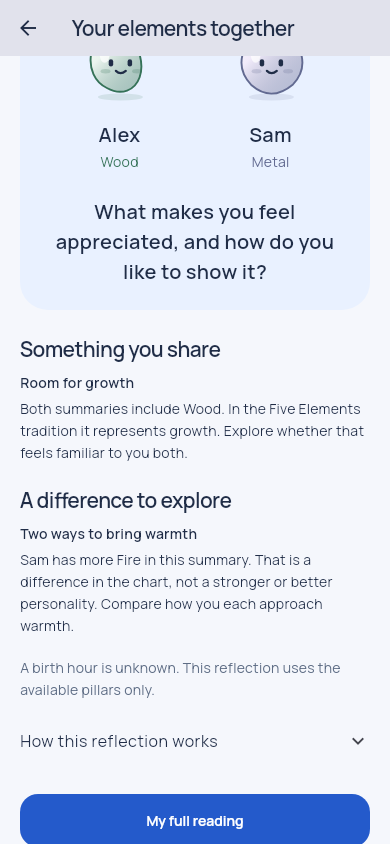
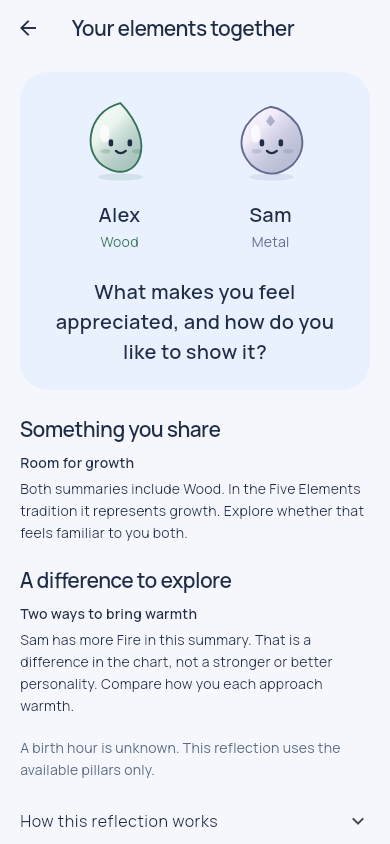
Keep shared result navigation and scrolling predictable

Changed region(s): [[0.0308, 0.2464, 0.9538, 1.0], [0.6154, 0.0616, 0.8, 0.2156], [0.2154, 0.0616, 0.3692, 0.2156]]

diff --git a/test/sharing_test.dart b/test/sharing_test.dart
@@ -10,6 +10,8 @@ import 'package:timezone/data/latest_all.dart' as tz;
 import 'package:lunar_social/main.dart';
 import 'package:lunar_social/models/profile.dart';
 import 'package:lunar_social/services/app_state.dart';
+import 'package:lunar_social/services/intent_flow.dart';
+import 'package:lunar_social/ui/intent_pages.dart';
 import 'package:lunar_social/services/bazi.dart' as bazi;
 import 'package:lunar_social/services/data_export.dart';
 import 'package:lunar_social/services/device_storage.dart';
@@ -258,6 +260,61 @@ void main() {
     await tester.pump(const Duration(seconds: 7));
     await tester.pumpAndSettle();
     expect(find.text('Something you share'), findsNothing);
+    expect(find.textContaining('expired or was withdrawn'), findsOneWidget);
+    await tester.pumpWidget(const SizedBox());
+    state.dispose();
+  });
+  testWidgets(
+      'returning from sharing can reopen the reading after navigating elsewhere',
+      (tester) async {
+    final state =
+        AppState(await SharedPreferences.getInstance(), initialPeople: []);
+    await state.chooseIntent(AppIntent.chart);
+    await tester.pumpWidget(LunarApp(state: state));
+    await tester.pumpAndSettle();
+    tester
+        .widget<NavigationBar>(find.byType(NavigationBar))
+        .onDestinationSelected!(1);
+    await tester.pumpAndSettle();
+    expect(find.byType(MyChartPage), findsNothing);
+    await state.chooseIntent(AppIntent.chart);
+    await tester.pumpAndSettle();
+    expect(find.byType(MyChartPage), findsOneWidget);
+    await tester.pumpWidget(const SizedBox());
+    state.dispose();
+  });
+  testWidgets('refreshing a withdrawn link clears the previous shared card',
+      (tester) async {
+    final prefs = await SharedPreferences.getInstance();
+    await prefs.setString(
+        'sharing.v1',
+        jsonEncode([
+          ShareEntry(
+                  id: id,
+                  secret: newShareToken(),
+                  kind: 'pair',
+                  role: 'owner',
+                  portrait: portrait,
+                  expiresAt: until)
+              .toJson()
+        ]));
+    var withdrawn = false;
+    final state = AppState(prefs,
+        initialPeople: [],
+        sharingRepository: SharingRepository(
+            client: MockClient((r) async => withdrawn
+                ? http.Response('{"code":"expired_or_missing"}', 410)
+                : ok(link()))));
+    await tester.pumpWidget(MaterialApp(
+        theme: lunarTheme(),
+        home: SharedLinkPage(state: state, id: id, onExit: () {})));
+    await tester.pumpAndSettle();
+    expect(find.byType(ElementPortraitCard), findsOneWidget);
+    withdrawn = true;
+    await tester.ensureVisible(find.text('Check for reply'));
+    await tester.tap(find.text('Check for reply'));
+    await tester.pumpAndSettle();
+    expect(find.byType(ElementPortraitCard), findsNothing);
     expect(find.textContaining('expired or was withdrawn'), findsOneWidget);
     await tester.pumpWidget(const SizedBox());
     state.dispose();

diff --git a/lib/ui/app_shell.dart b/lib/ui/app_shell.dart
@@ -32,7 +32,8 @@ class AppShell extends StatefulWidget {
 
 class _AppShellState extends State<AppShell> {
   AppState get state => widget.state;
-  AppIntent? section, lastIntent;
+  AppIntent? section;
+  late int intentGeneration;
   late final StudioStore studio;
   late final ChartAgent agent;
   final scroll = ScrollController(), search = TextEditingController();
@@ -50,7 +51,8 @@ class _AppShellState extends State<AppShell> {
   @override
   void initState() {
     super.initState();
-    section = lastIntent = state.startIntent;
+    section = state.startIntent;
+    intentGeneration = state.intentGeneration;
     studio = StudioStore(state);
     agent = ChartAgent(studio);
     generation = state.resetGeneration;
@@ -61,8 +63,9 @@ class _AppShellState extends State<AppShell> {
   String _profileSignature() =>
       jsonEncode([state.name, state.birth.toJson(), state.personalized]);
   void _changed() {
-    if (state.startIntent != lastIntent) {
-      section = lastIntent = state.startIntent;
+    if (state.intentGeneration != intentGeneration) {
+      intentGeneration = state.intentGeneration;
+      section = state.startIntent;
     }
     final next = _profileSignature();
     if (next != profileSignature) {

diff --git a/lib/services/app_state.dart b/lib/services/app_state.dart
@@ -43,6 +43,7 @@ class AppState extends ChangeNotifier {
   List<ReportRecord> reports = [];
   String? persistenceError;
   int resetGeneration = 0;
+  int intentGeneration = 0;
   AppIntent? startIntent;
   AppState(this.preferences,
       {PeopleRepository? peopleRepository,
@@ -201,6 +202,7 @@ class AppState extends ChangeNotifier {
           return false;
         }
         startIntent = intent;
+        intentGeneration++;
         _notify();
         return true;
       }, failure: false);

diff --git a/test/render/capture_sharing.dart b/test/render/capture_sharing.dart
@@ -134,6 +134,8 @@ void main() {
       await tester.pumpAndSettle();
       expect(joined, isTrue);
       expect(find.text('Your elements together'), findsOneWidget);
+      expect(tester.getTopLeft(find.byType(PairResultView)).dy,
+          greaterThanOrEqualTo(56));
       await shot('result');
       await tester.ensureVisible(find.text('Compare with another friend'));
       await tester.tap(find.text('Compare with another friend'));

diff --git a/lib/ui/sharing_pages.dart b/lib/ui/sharing_pages.dart
@@ -42,6 +42,7 @@ class ShareFrame extends StatelessWidget {
               onPressed: onClose ?? () => Navigator.pop(context))),
       body: SafeArea(
           child: SingleChildScrollView(
+              key: ValueKey(title),
               padding: const EdgeInsets.fromLTRB(20, 16, 20, 40),
               child: Center(
                   child: ConstrainedBox(

diff --git a/README.md b/README.md
@@ -46,6 +46,8 @@ GitHub Actions runs Flutter/Python checks, a Web release, an Android debug build
 
 ## Working features
 
+- Shareable element cards and private one-friend comparisons, persisted in D1. Preview the shared fields, create a seven-day link, open it on another device, consent to a reduced elemental summary, and both view a commonality, difference and conversation question. Revisit/withdraw from My shared links; share through the system, clipboard or a card image. [Sharing contract and verification](docs/friend-sharing.md).
+
 - A persistent Cloudflare D1 catalog with 1,000 explicitly synthetic adults across 40 countries, six continents and ages 18–75. Public SQL-backed list/detail/statistics APIs support paging and filters. Catalog records use initials and independently verified lunar-python chart snapshots, including historical birth instants. See [catalog operations](catalog/README.md).
 
 - Optional Element Garden: an original five-habitat map, a tap/drag supporting-cycle puzzle, waking guardians, a five-seal collection and readable field notes. Each of five links saves immediately; old rewards migrate and replay never duplicates sparks. All three discoveries remain freely selectable and clear with local data.
@@ -61,7 +63,7 @@ GitHub Actions runs Flutter/Python checks, a Web release, an Android debug build
 - Save / unsave connections, inspect match breakdowns, and hide profiles.
 - Search discovery by name, city/country, occupation, or interests.
 - Secondary Saved, Invitations, and Messages tabs within Match.
-- Local-only invitations, withdrawal, conversation previews, and persistent message drafts with an icebreaker. No messages are delivered.
+- Local-only invitations to synthetic profiles, withdrawal, conversation previews, and persistent message drafts with an icebreaker. No messages are delivered.
 - Validated adult birth profile, date picker, optional birth time, 16 global birthplaces, and custom birthplace with IANA zone and longitude.
 - Historical time-zone and daylight-saving handling.
 - Four Pillars, day master, visible element distribution, and English guide.

diff --git a/docs/release-review.md b/docs/release-review.md
@@ -14,6 +14,7 @@ Implemented personal element cards and a consented one-friend comparison in the 
 | A profile-save snackbar covered the following consent step on a phone. | Dismiss it when entering the shared-details preview. Actual renderer interaction completes the confirmation on phones and 320px/200% text. |
 | A refreshed revoked link could retain the previous result in widget memory. | Failed reloads clear old shared data; an expiry timer closes an already-open result. Regression tests verify expiry and no stale result. |
 | One malformed saved link could discard all other withdrawal handles. | Recover valid records independently and show a recovery notice; a regression preserves the valid handle. |
+| After acceptance, the result inherited the preview’s scroll position and clipped the companions. | Each share stage has a separate scroll view; the result begins at the top. All three renderer walkthroughs assert its position. |
 
 The sharing schema rejects birth inputs and unexpected properties. Capabilities are independent from public link IDs and hashed on the server. Pair acceptance is atomic and retry-safe, records expire after seven days, either participant can withdraw, and aggregate counters contain no names or referral graph. This does not create real community accounts, verified identities or mutual messaging. Production smoke and final CI/publication evidence are recorded in verification.md. The supported browser-control tool is unavailable; renderer interaction is not browser or native share-sheet acceptance.
 

diff --git a/docs/verification.md b/docs/verification.md
@@ -2,7 +2,7 @@
 
 ## Friend sharing — 2026-11-14
 
-- Clean Flutter analysis; **116 Flutter tests** pass, including URL routing, reduced chart snapshots, consent, failed save/no request, ambiguous network retry after restart, acknowledgement failure, corrupt-entry recovery, concurrent create/reset, offline withdrawal, credential-free export, expiry and large-text layouts.
+- Clean Flutter analysis; **118 Flutter tests** pass, including URL routing, reduced chart snapshots, consent, failed save/no request, ambiguous network retry after restart, acknowledgement failure, corrupt-entry recovery, concurrent create/reset, offline withdrawal, credential-free export, expiry and large-text layouts.
 - **20 file-backed SQLite/API tests** pass (11 catalog, 9 sharing), including cross-device result retrieval, missing/invalid credentials, single-participant races, idempotency, strict input/body bounds, shared rate limits, both withdrawal roles and expiry after reopening the real database file.
 - **23 Python chart-service tests** pass. The existing full-context DeepSeek / lunar-python service remains unchanged.
 - Three friend-sharing renderer walkthroughs at 1440×1000, 390×844 and 320×740 / 200% complete invitation → profile with unknown hour → explicit summary consent → shared result → onward invitation. **15 captures**; selected evidence in `output/flutter-render/sharing-*.png`. These use API fixtures only for deterministic rendering; production has no fallback data.
